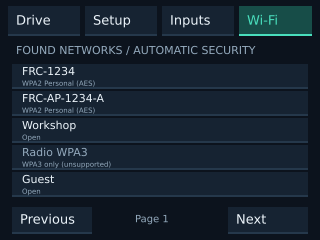
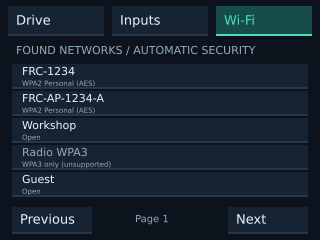
Merge Drive setup and restrict control packets to Teleop

Changed region(s): [[0.5312, 0.0, 0.875, 0.175], [0.2812, 0.0583, 0.5, 0.1167]]

diff --git a/source/ui.c b/source/ui.c
@@ -9,7 +9,6 @@
 #define TEAL 0x49dfbd
 #define AMBER 0xffcf75
 #define RED 0xff6b78
-static const char *modes[] = {"TELEOP", "TEST", "AUTO"};
 static void text(float x, float y, float size, uint32_t color, const char *s) {
     paint_text(x, y, size, color, s);
 }
@@ -47,9 +46,9 @@ void ui_draw(const UiModel *m, UiPage page, UiPopup popup) {
     metric(140,"ROBOT CODE",m->connected && m->code ? "Running" : "Not ready",m->connected && m->code ? TEAL : AMBER);
     if (m->connected) snprintf(s,sizeof s,"%u ms",m->age_ms); else snprintf(s,sizeof s,"No reply");
     metric(266,"REPLY AGE",s,m->connected ? WHITE : MUTED);
-    snprintf(s,sizeof s,"%s  /  %s %u",modes[m->mode],m->alliance < 3 ? "RED" : "BLUE",m->alliance%3+1);
+    snprintf(s,sizeof s,"TELEOP  /  %s %u",m->alliance < 3 ? "RED" : "BLUE",m->alliance%3+1);
     text(14,176,12,WHITE,s);
-    text(14,195,11,MUTED,m->configured ? m->target : "Set your team number in Setup");
+    text(14,195,11,MUTED,m->configured ? m->target : "Set your team number on Drive");
     text(246,176,10,MUTED,"ROBOT REPORTS");
     text(246,193,12,m->connected && m->rio_enabled ? TEAL : MUTED,
          !m->connected ? "Unknown" : m->rio_enabled ? "Enabled" : "Disabled");
@@ -67,50 +66,37 @@ void ui_draw(const UiModel *m, UiPage page, UiPopup popup) {
         paint_end();
         return;
     }
-    button(8,6,72,30,"Drive",page==PAGE_DRIVE,false);
-    button(85,6,72,30,"Setup",page==PAGE_SETUP,false);
-    button(162,6,72,30,"Inputs",page==PAGE_INPUTS,false);
-    button(239,6,73,30,"Wi-Fi",page==PAGE_WIFI,false);
+    button(8,6,96,30,"Drive",page==PAGE_DRIVE,false);
+    button(112,6,96,30,"Inputs",page==PAGE_INPUTS,false);
+    button(216,6,96,30,"Wi-Fi",page==PAGE_WIFI,false);
     if (page == PAGE_DRIVE) {
-        text(12,46,9,MUTED,"ROBOT MODE");
-        button(12,61,296,31,modes[m->mode],false,false);
-        text(280,69,13,TEAL,"v");
-        text(12,103,9,MUTED,"ALLIANCE STATION");
+        text(12,46,9,MUTED,"ALLIANCE STATION");
         snprintf(s,sizeof s,"%s %u",m->alliance<3 ? "RED":"BLUE",m->alliance%3+1);
-        button(12,118,296,31,s,false,false);
-        text(280,126,13,TEAL,"v");
+        button(12,61,296,31,s,false,false);
+        text(280,69,13,TEAL,"v");
+        text(12,103,11,MUTED,"Team Number:");
+        button(12,118,296,31,"",false,false);
+        if(m->configured) {
+            snprintf(s,sizeof s,"%u",m->team);
+            text(20,126,16,WHITE,s);
+        }
         bool ready=!m->wifi_busy && m->configured && m->connected && m->code && !m->estop && m->neutral;
         box(12,166,296,43,ready ? 0x17664f : PANEL);
         paint_text_centered(160,187.5f,25,ready ? WHITE : MUTED,"ENABLE");
         const char *reason=m->estop ? "Reset robot E-stop and restart app" :
-            !m->configured ? "Set your team number in Setup" :
+            !m->configured ? "Set your team number on Drive" :
             !m->connected ? "Waiting for robot connection" :
             !m->code ? "Waiting for robot code" :
             !m->neutral ? "Center sticks and release robot buttons" : "Tap ENABLE when ready";
         text(12,219,11,ready ? TEAL : AMBER,reason);
-        if(popup!=POPUP_NONE) {
-            box(6,40,308,195,0x0c131d);
-            text(16,45,11,MUTED,popup==POPUP_MODE ? "SELECT MODE":"SELECT ALLIANCE STATION");
-            int count=popup==POPUP_MODE ? 3:6;
-            int height=popup==POPUP_MODE ? 45:26;
-            for(int i=0;i<count;i++) {
-                if(popup==POPUP_MODE) snprintf(s,sizeof s,"%s",modes[i]);
-                else snprintf(s,sizeof s,"%s %u",i<3 ? "RED":"BLUE",i%3+1);
-                button(12,64+i*height,296,height-2,s,
-                    popup==POPUP_MODE ? m->mode==i:m->alliance==i,false);
+        if(popup==POPUP_ALLIANCE) {
+            box(6,40,308,195,BG);
+            text(16,45,11,MUTED,"SELECT ALLIANCE STATION");
+            for(int i=0;i<6;i++) {
+                snprintf(s,sizeof s,"%s %u",i<3 ? "RED":"BLUE",i%3+1);
+                button(12,64+i*26,296,24,s,m->alliance==i,false);
             }
         }
-    } else if (page == PAGE_SETUP) {
-        text(12,45,10,MUTED,"CONNECTION");
-        button(12,64,296,45,"",false,m->enabled);
-        text(22,69,9,MUTED,"TEAM NUMBER / TAP TO EDIT");
-        if(m->configured) snprintf(s,sizeof s,"Team %u",m->team); else snprintf(s,sizeof s,"Not configured");
-        text(22,84,16,WHITE,s);
-        text(12,122,10,MUTED,"ROBOT ADDRESS (AUTOMATIC)");
-        text(12,139,13,WHITE,m->configured ? m->target : "Enter your team number above");
-        text(12,163,10,MUTED,"Configure your connection on the Wi-Fi tab.");
-        text(12,178,10,MUTED,"2.4 GHz network / direct UDP connection");
-
     } else if(page==PAGE_WIFI) {
         bool found=m->wifi_suggestion && m->wifi_suggestion[0];
         text(12,44,9,found ? TEAL:MUTED,found ? "Join Recommended Network:":"No team network found in scan");
@@ -185,22 +171,15 @@ UiAction ui_touch(UiPage page,UiPopup popup,int x,int y,bool enabled) {
             if(inside(x,y,12,207,80,27)) return UI_NETWORK_PREV;
             if(inside(x,y,228,207,80,27)) return UI_NETWORK_NEXT;
         } else {
-            int count=popup==POPUP_MODE ? 3:6;
-            int height=popup==POPUP_MODE ? 45:26;
-            UiAction first=popup==POPUP_MODE ? UI_TELEOP:UI_RED1;
-            for(int i=0;i<count;i++) if(inside(x,y,12,64+i*height,296,height-2)) return first+i;
+            for(int i=0;i<6;i++) if(inside(x,y,12,64+i*26,296,24)) return UI_RED1+i;
         }
         return UI_CLOSE_POPUP;
     }
-    for(int i=0;i<4;i++) if(inside(x,y,8+77*i,6,i==3 ? 73:72,30)) return UI_TAB_DRIVE+i;
+    for(int i=0;i<3;i++) if(inside(x,y,8+104*i,6,96,30)) return UI_TAB_DRIVE+i;
     if(page==PAGE_DRIVE) {
-        if(inside(x,y,12,61,296,31)) return UI_OPEN_MODE;
-        if(inside(x,y,12,118,296,31)) return UI_OPEN_ALLIANCE;
+        if(inside(x,y,12,61,296,31)) return UI_OPEN_ALLIANCE;
+        if(inside(x,y,12,118,296,31)) return UI_TEAM;
         if(inside(x,y,12,166,296,43)) return UI_ENABLE;
-    }
-    if(page==PAGE_SETUP) {
-        if(inside(x,y,12,64,296,45)) return UI_TEAM;
-
     }
     if(page==PAGE_WIFI) {
         if(inside(x,y,240,43,68,37)) return UI_WIFI_SUGGEST;

diff --git a/source/main.c b/source/main.c
@@ -31,10 +31,10 @@ static Link link_state;
 static struct sockaddr_in robot_addr;
 static int sock = -1;
 static uint16_t sequence;
-static uint8_t mode, alliance;
+static uint8_t alliance;
 static unsigned team_number;
 static char target[16];
-static char message[80] = "Set your team number in Setup.";
+static char message[80] = "Set your team number on Drive.";
 static bool configured;
 static uint32_t lifecycle_event;
 
@@ -106,7 +106,7 @@ static Calendar calendar_now(void) {
 static bool transmit(const Controls *controls, uint64_t now, bool force_disabled) {
     if (sock < 0 || !configured) return false;
     uint8_t data[DS_PACKET_MAX];
-    Command cmd = {sequence++, mode, safety.enabled && !force_disabled, safety.estop, alliance};
+    Command cmd = {sequence++, safety.enabled && !force_disabled, safety.estop, alliance};
     Calendar cal = calendar_now();
     bool time_needed = !link_connected(&link_state, now) || link_state.robot.request_time;
     size_t len = ds_packet(data, sizeof data, &cmd, controls, time_needed ? &cal : NULL);
@@ -228,7 +228,7 @@ static void draw(const Controls *c, uint64_t now, uint32_t wifi) {
         .configured=configured, .neutral=neutral(c),
         .voltage=link_state.robot.voltage,
         .age_ms=connected ? (unsigned)(now-link_state.last_rx) : 0,
-        .mode=mode, .alliance=alliance, .team=team_number, .controls=*c, .target=target, .message=message,
+        .alliance=alliance, .team=team_number, .controls=*c, .target=target, .message=message,
         .wifi_ssid=wifi_setup.ssid, .wifi_suggestion=recommended>=0 ? wifi_scan.networks[recommended].ssid:NULL,
         .wifi_password=wifi_setup.password, .wifi_show_password=show_password,
         .networks=wifi_scan.networks, .network_count=wifi_scan.count, .network_page=network_page,
@@ -323,12 +323,9 @@ int main(int argc, char **argv) {
                 } else if(action==UI_WIFI_CONNECT) {
                     if(wifi_setup.busy) wifi_setup_cancel(); else join_network();
                 }
-                else if (action==UI_OPEN_MODE) popup=POPUP_MODE;
                 else if (action==UI_OPEN_ALLIANCE) popup=POPUP_ALLIANCE;
                 else if (action==UI_CLOSE_POPUP) popup=POPUP_NONE;
-                else if (action>=UI_TELEOP && action<=UI_AUTO) {
-                    mode=action-UI_TELEOP; popup=POPUP_NONE; safety_disable(&safety);
-                } else if (action>=UI_RED1 && action<=UI_BLUE3) {
+                else if (action>=UI_RED1 && action<=UI_BLUE3) {
                     alliance=action-UI_RED1; popup=POPUP_NONE; safety_disable(&safety); if(configured) save_config();
                 } else if (action==UI_TEAM) edit_team();
             }

diff --git a/tests/test_ui.c b/tests/test_ui.c
@@ -8,20 +8,19 @@ void paint_box(float x,float y,float w,float h,uint32_t c) {(void)x;(void)y;(voi
 void paint_text(float x,float y,float size,uint32_t c,const char *s) {(void)x;(void)y;(void)size;(void)c;(void)s;}
 int main(void) {
     /* Every valid pixel stops, on every page, even with an old popup open. */
-    for(int page=0;page<4;page++) for(int popup=0;popup<4;popup++)
+    for(int page=0;page<3;page++) for(int popup=0;popup<3;popup++)
         for(int x=0;x<320;x++) for(int y=0;y<240;y++)
             assert(ui_touch(page,popup,x,y,true)==UI_DISABLE);
-    assert(ui_touch(PAGE_DRIVE,POPUP_NONE,20,65,false)==UI_OPEN_MODE);
-    assert(ui_touch(PAGE_DRIVE,POPUP_NONE,20,125,false)==UI_OPEN_ALLIANCE);
+    assert(ui_touch(PAGE_DRIVE,POPUP_NONE,20,65,false)==UI_OPEN_ALLIANCE);
+    assert(ui_touch(PAGE_DRIVE,POPUP_NONE,20,125,false)==UI_TEAM);
     assert(ui_touch(PAGE_DRIVE,POPUP_NONE,20,180,false)==UI_ENABLE);
-    assert(ui_touch(PAGE_DRIVE,POPUP_MODE,20,120,false)==UI_TEST);
-    assert(ui_touch(PAGE_DRIVE,POPUP_MODE,20,170,false)==UI_AUTO);
     assert(ui_touch(PAGE_DRIVE,POPUP_ALLIANCE,20,200,false)==UI_BLUE3);
-    /* A dismissed dropdown must not activate the Enable button underneath it. */
-    assert(ui_touch(PAGE_DRIVE,POPUP_MODE,20,220,false)==UI_CLOSE_POPUP);
-    assert(ui_touch(PAGE_SETUP,POPUP_NONE,50,85,false)==UI_TEAM);
-    assert(ui_touch(PAGE_SETUP,POPUP_NONE,50,135,false)==UI_NONE);
-    assert(ui_touch(PAGE_SETUP,POPUP_NONE,50,210,false)==UI_NONE);
+    /* Dismissing a selector must not enable the robot underneath it. */
+    assert(ui_touch(PAGE_DRIVE,POPUP_ALLIANCE,20,220,false)==UI_CLOSE_POPUP);
+    assert(ui_touch(PAGE_DRIVE,POPUP_NONE,50,105,false)==UI_NONE);
+    assert(ui_touch(PAGE_DRIVE,POPUP_NONE,50,20,false)==UI_TAB_DRIVE);
+    assert(ui_touch(PAGE_DRIVE,POPUP_NONE,150,20,false)==UI_TAB_INPUTS);
+    assert(ui_touch(PAGE_DRIVE,POPUP_NONE,250,20,false)==UI_TAB_WIFI);
     assert(ui_touch(PAGE_DRIVE,POPUP_NONE,-1,65,true)==UI_NONE);
     assert(ui_touch(PAGE_DRIVE,POPUP_NONE,320,65,true)==UI_NONE);
     assert(ui_touch(PAGE_WIFI,POPUP_NONE,50,100,false)==UI_WIFI_NETWORKS);
@@ -33,5 +32,5 @@ int main(void) {
     assert(ui_touch(PAGE_WIFI,POPUP_NETWORKS,50,100,false)==UI_NETWORK1);
     assert(ui_touch(PAGE_WIFI,POPUP_NETWORKS,250,220,false)==UI_NETWORK_NEXT);
     assert(ui_touch(PAGE_WIFI,POPUP_NETWORKS,160,220,false)==UI_CLOSE_POPUP);
-    puts("PASS: full-screen stop target, dropdown isolation, team-only setup and scanned network picker");
+    puts("PASS: full-screen stop target, dropdown isolation, merged numeric team field and scanned network picker");
 }

diff --git a/tools/render_previews.py b/tools/render_previews.py
@@ -26,9 +26,9 @@ def fix_centered_text(path):
     tree.write(path,encoding="unicode")
 for path in (root/"docs/top.svg",root/"docs/bottom.svg"):
     fix_centered_text(path)
-scenes = [("drive", 0, None), ("setup", 1, None), ("inputs", 2, None),
-          ("wifi", 3, None), ("enabled", 0, "enabled"), ("mode-open", 0, "mode"),
-          ("alliance-open", 0, "alliance"), ("networks-open", 3, "networks"), ("password-show", 3, "show"), ("wifi-missing",3,"missing")]
+scenes = [("drive", 0, None), ("inputs", 1, None), ("wifi", 2, None),
+          ("enabled", 0, "enabled"), ("alliance-open", 0, "alliance"),
+          ("networks-open", 2, "networks"), ("password-show", 2, "show"), ("wifi-missing",2,"missing")]
 for name, page, popup in scenes:
     build = root / "build/previews" / name
     build.mkdir(parents=True, exist_ok=True)
@@ -48,16 +48,16 @@ def sheet(filename, items):
         draw.text((x, y), label, fill="#ecf4fa", font=font)
         result.paste(Image.open(out / (name + ".png")), (x, y + 25))
     result.save(out / filename)
-sheet("screens-closed.png", [("drive", "Drive / selectors closed"), ("setup", "Setup"),
-                             ("inputs", "Inputs"), ("wifi", "Wi-Fi / selectors closed")])
-sheet("selectors-open.png", [("mode-open", "Mode selector open"), ("alliance-open", "Alliance selector open"),
+sheet("screens-closed.png", [("drive", "Drive / alliance and team"), ("inputs", "Inputs"),
+                             ("wifi", "Wi-Fi / selector closed"), ("enabled", "Full-screen Disable")])
+sheet("selectors-open.png", [("alliance-open", "Alliance selector open"), ("wifi-missing", "Wi-Fi / no team network found"),
                              ("networks-open", "Found networks selector"), ("password-show", "Wi-Fi / password visible")])
 result = Image.new("RGB", (440, 520), "#050a10")
 result.paste(Image.open(out / "status.png"), (20, 12))
 result.paste(Image.open(out / "drive.png"), (60, 266))
 result.save(root / "docs/ui-preview.png")
 result = Image.new("RGB", (660, 500), "#050a10")
-for name, xy in [("setup", (0, 0)), ("inputs", (340, 0)), ("enabled", (0, 260)), ("wifi", (340, 260))]:
+for name, xy in [("drive", (0, 0)), ("inputs", (340, 0)), ("enabled", (0, 260)), ("wifi", (340, 260))]:
     result.paste(Image.open(out / (name + ".png")), xy)
 result.save(root / "docs/ui-states.png")
 print(out)

diff --git a/include/ui.h b/include/ui.h
@@ -2,18 +2,18 @@
 #define N3DS_UI_H
 #include "protocol.h"
 #include "wifi_scan.h"
-typedef enum { PAGE_DRIVE, PAGE_SETUP, PAGE_INPUTS, PAGE_WIFI } UiPage;
-typedef enum { POPUP_NONE, POPUP_MODE, POPUP_ALLIANCE, POPUP_NETWORKS } UiPopup;
+typedef enum { PAGE_DRIVE, PAGE_INPUTS, PAGE_WIFI } UiPage;
+typedef enum { POPUP_NONE, POPUP_ALLIANCE, POPUP_NETWORKS } UiPopup;
 typedef enum {
-    UI_NONE, UI_TAB_DRIVE, UI_TAB_SETUP, UI_TAB_INPUTS, UI_TAB_WIFI,
-    UI_TELEOP, UI_TEST, UI_AUTO, UI_RED1, UI_RED2, UI_RED3,
-    UI_BLUE1, UI_BLUE2, UI_BLUE3, UI_ENABLE, UI_DISABLE, UI_TEAM, UI_WIFI_NETWORKS, UI_WIFI_PASSWORD, UI_WIFI_SUGGEST, UI_WIFI_CONNECT, UI_WIFI_SCAN, UI_WIFI_SHOW, UI_NETWORK_PREV, UI_NETWORK_NEXT, UI_NETWORK0, UI_NETWORK1, UI_NETWORK2, UI_NETWORK3, UI_NETWORK4, UI_OPEN_MODE, UI_OPEN_ALLIANCE, UI_CLOSE_POPUP
+    UI_NONE, UI_TAB_DRIVE, UI_TAB_INPUTS, UI_TAB_WIFI,
+    UI_RED1, UI_RED2, UI_RED3,
+    UI_BLUE1, UI_BLUE2, UI_BLUE3, UI_ENABLE, UI_DISABLE, UI_TEAM, UI_WIFI_NETWORKS, UI_WIFI_PASSWORD, UI_WIFI_SUGGEST, UI_WIFI_CONNECT, UI_WIFI_SCAN, UI_WIFI_SHOW, UI_NETWORK_PREV, UI_NETWORK_NEXT, UI_NETWORK0, UI_NETWORK1, UI_NETWORK2, UI_NETWORK3, UI_NETWORK4, UI_OPEN_ALLIANCE, UI_CLOSE_POPUP
 } UiAction;
 typedef struct {
     bool connected, wifi, code, enabled, rio_enabled, estop, brownout, configured, neutral;
     float voltage;
     unsigned age_ms;
-    uint8_t mode, alliance;
+    uint8_t alliance;
     unsigned team;
     Controls controls;
     const char *target, *message;

diff --git a/tests/test_core.c b/tests/test_core.c
@@ -8,19 +8,20 @@
 static void packets(void) {
     uint8_t out[DS_PACKET_MAX];
     Controls j = {{-127, 0, 127, -1}, 0x341, 315};
-    Command c = {65535, 2, true, false, 5};
-    const uint8_t expected[] = {255,255,1,6,0,5,12,12,4,129,0,127,255,10,3,65,1,1,59};
+    Command c = {65535, true, false, 5};
+    const uint8_t expected[] = {255,255,1,4,0,5,12,12,4,129,0,127,255,10,3,65,1,1,59};
     assert(ds_packet(out, sizeof out, &c, &j, NULL) == sizeof expected);
     assert(memcmp(out, expected, sizeof expected) == 0);
     assert(ds_packet(out, sizeof expected - 1, &c, &j, NULL) == 0);
-    c.estop = true; ds_packet(out, sizeof out, &c, &j, NULL); assert(out[3] == 0x82);
+    c.estop = true; ds_packet(out, sizeof out, &c, &j, NULL); assert(out[3] == 0x80);
     c.sequence++; assert(c.sequence == 0);
     Calendar cal = {0x00010203, 4, 5, 6, 7, 9, 126};
     const uint8_t date[] = {11,15,0,1,2,3,4,5,6,7,9,126,4,16,'U','T','C'};
     assert(ds_packet(out, sizeof out, &c, &j, &cal) == 36);
     assert(memcmp(out + 6, date, sizeof date) == 0);
-    c.mode = 3; assert(ds_packet(out, sizeof out, &c, &j, NULL) == 0);
-    c.mode = 0; c.alliance = 6; assert(ds_packet(out, sizeof out, &c, &j, NULL) == 0);
+    c.estop=false; c.enabled=false;
+    ds_packet(out,sizeof out,&c,&j,NULL); assert(out[3]==0);
+    c.alliance = 6; assert(ds_packet(out, sizeof out, &c, &j, NULL) == 0);
 }
 static void status(void) {
     RobotStatus s;

diff --git a/source/protocol.c b/source/protocol.c
@@ -6,10 +6,11 @@ static uint16_t get16(const uint8_t *p) { return (uint16_t)((p[0] << 8) | p[1]);
 size_t ds_packet(uint8_t *p, size_t cap, const Command *c,
                  const Controls *j, const Calendar *t) {
     const size_t needed = 19 + (t ? 17 : 0);
-    if (!p || !c || !j || cap < needed || c->mode > 2 || c->alliance > 5) return 0;
+    if (!p || !c || !j || cap < needed || c->alliance > 5) return 0;
     put16(p, c->sequence);
     p[2] = 1;
-    p[3] = c->mode | (c->enabled && !c->estop ? 4 : 0) | (c->estop ? 0x80 : 0);
+    /* Teleop only: autonomous/test mode bits are always zero. */
+    p[3] = (c->enabled && !c->estop ? 4 : 0) | (c->estop ? 0x80 : 0);
     p[4] = 0; /* No reboot/restart requests. */
     p[5] = c->alliance;
     size_t n = 6;

diff --git a/tools/preview_ui.c b/tools/preview_ui.c
@@ -42,7 +42,6 @@ int main(int argc,char **argv) {
     UiPopup popup=POPUP_NONE;
     if(argc>3) {
         if(!strcmp(argv[3],"enabled")) { m.enabled=true; m.rio_enabled=true; }
-        if(!strcmp(argv[3],"mode")) popup=POPUP_MODE;
         if(!strcmp(argv[3],"alliance")) popup=POPUP_ALLIANCE;
         if(!strcmp(argv[3],"networks")) popup=POPUP_NETWORKS;
         if(!strcmp(argv[3],"show")) m.wifi_show_password=true;

diff --git a/include/protocol.h b/include/protocol.h
@@ -12,7 +12,6 @@
 typedef struct { int8_t axes[4]; uint16_t buttons; int16_t pov; } Controls;
 typedef struct {
     uint16_t sequence;
-    uint8_t mode;
     bool enabled, estop;
     uint8_t alliance;
 } Command;

diff --git a/docs/release-notes.md b/docs/release-notes.md
@@ -1,15 +1,13 @@
 Nintendo New 3DS XL HOME Menu app for FRC roboRIO robot control.
 
-**Install:** download `3dsDS.cia`, copy it to the SD card, and install with FBI. Open 3dsDS from HOME Menu. This release is distributed as a CIA only.
+**Install:** download `3dsDS.cia`, copy it to the SD card, and install with FBI. Launch 3dsDS from HOME Menu.
 
 Changes:
-- Added scanned 2.4 GHz network selection with automatic security detection. Team recommendations appear only for compatible networks found in a fresh scan, with a large Join button.
-- Secured network selection opens the native password keyboard. The password field supports editing and a small Show/Hide button.
-- Remembers one last-used network, replacing the same system profile on subsequent joins; no slot or security selectors.
-- Connection runs asynchronously with timeout/cancel handling. The robot remains disabled while changing Wi-Fi. The app reuses one system Wi-Fi profile. Passwords are stored in the console's network profile, not the app's SD config or logs.
-- Centered Disable text using the actual rendered font dimensions.
-- Removed Quit to launcher and the Inputs screen's touch-control hint.
+- Merged Drive and Setup into one Drive page: alliance station, Team Number, then Enable.
+- The team field contains only digits and opens the numeric 3DS keyboard.
+- Restricted the app and outgoing control packets to Teleop. Removed the mode selector.
+- Simplified navigation to Drive, Inputs, and Wi-Fi, and refreshed the screen renders.
 
-`FRC-<team>` is a suggestion for the robot radio, not a detected network. A separate access-point radio may use `FRC-AP-<team>` with a suffix. Enter the exact SSID shown by your radio. Use a 2.4 GHz WPA2-capable network; WPA3-only is unsupported by the 3DS.
+Wi-Fi still detects security automatically, recommends only team networks found in a fresh scan, and remembers one last-used connection. The password field supports the native keyboard and Show/Hide.
 
-Experimental release: protocol/safety/UI tests, mocked Wi-Fi service tests, and build/package checks pass. Actual Wi-Fi scanning, profile writes, network association on a physical New 3DS XL, and 2026 roboRIO operation still need hardware validation. No FMS support.
+Experimental release: automated protocol, safety, UI, and Wi-Fi service tests and CIA package checks pass. Physical 3DS Wi-Fi and compatibility with a 2026 roboRIO still need hardware testing. No FMS support.

diff --git a/docs/development.md b/docs/development.md
@@ -5,7 +5,7 @@
 ## Protocol scope
 
 - Standalone UDP control to port 1110, reply socket bound to 1150, nominal 20 ms sends.
-- Version 1, wrapping 16-bit sequence, mode/enable/E-stop, alliance, one joystick, UTC date/timezone handshake tags.
+- Version 1, wrapping 16-bit sequence, Teleop-only control, enable/E-stop, alliance, one joystick, UTC date/timezone handshake tags.
 - Robot-code bit from trace byte 4 (`0x20`); battery from bytes 5–6 with a `/256` fraction. These correct the attached Python implementation's telemetry parsing.
 - Replies must come from the configured robot IPv4 address, have a valid header/tag layout, echo a recently sent sequence, and advance the response sequence. Duplicates, old replies, and malformed packets cannot refresh link health. This is freshness checking, not cryptographic authentication.
 - Date tags are resent while disconnected or requested by the robot. The calendar uses the console's clock as UTC; set that clock correctly if robot timestamps matter.
@@ -36,7 +36,7 @@ python3 tools/mock_robot.py --bind 0.0.0.0
 
 Because the app accepts only team numbers, the mock PC must have the team's derived address (for example `10.12.34.2` for team 1234) on a dedicated test network that does not contain a real robot. Do not assign that address if it would conflict with an existing roboRIO. The mock prints all controls and reports 12.50 V and running code. Verify touch enable, the full-screen Disable target, and physical button independence. Repeat with `--drop-after 10` for link loss and `--no-code` for the code interlock. This is not a substitute for real roboRIO compatibility testing.
 
-Before normal use, verify disabled startup, axis signs, touch enable/disable, Wi-Fi loss/recovery, lid close/reopen, HOME/resume, robot-code restart, and mode changes with actuators secured. Never run another driver station against the same roboRIO simultaneously.
+Before normal use, verify disabled startup, axis signs, touch enable/disable, Wi-Fi loss/recovery, lid close/reopen, HOME/resume, robot-code restart with actuators secured. Never run another driver station against the same roboRIO simultaneously.
 
 ## GitHub builds and releases
 

diff --git a/README.md b/README.md
@@ -18,13 +18,13 @@ These are layout renders, not console screenshots.
 
 ## Connect and drive
 
-1. In **Setup**, enter your team number. The robot address is automatic: team 1234 → `10.12.34.2`.
+1. On **Drive**, enter your team number. The robot address is automatic: team 1234 → `10.12.34.2`.
 2. Open **Wi-Fi** and wait for the scan. Tap **Join** beside the recommended team network, or select another detected network and tap **Join selected network**. Enter its password when prompted.
 3. Wait for **CONNECTED** and robot code **Running**. Check your controls on **Inputs**.
-4. On **Drive**, select your mode and alliance station. Center the sticks, release the physical controls, and tap **ENABLE**.
+4. On **Drive**, select your alliance station. Center the sticks, release the physical controls, and tap **ENABLE**.
 5. The entire bottom screen becomes a red **DISABLE** button. Tap anywhere to stop.
 
-The app starts disabled. HOME, sleep, connection loss, or missing robot code also disable it. Returning or reconnecting never enables it automatically. Physical buttons are robot inputs; there are no enable/disable button combos.
+The app supports **Teleop only** and starts disabled. HOME, sleep, connection loss, or missing robot code also disable it. Returning or reconnecting never enables it automatically. Physical buttons are robot inputs; there are no enable/disable button combos.
 
 For the first hardware test, secure the robot and raise its wheels. **ENABLE REQUESTED** shows what the app requests; **ROBOT REPORTS** shows the robot's reported state.
 
